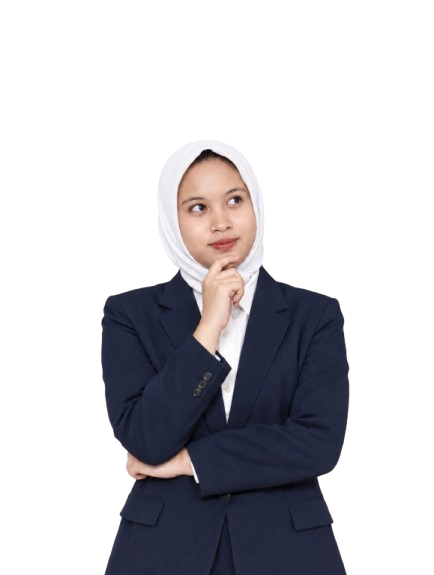
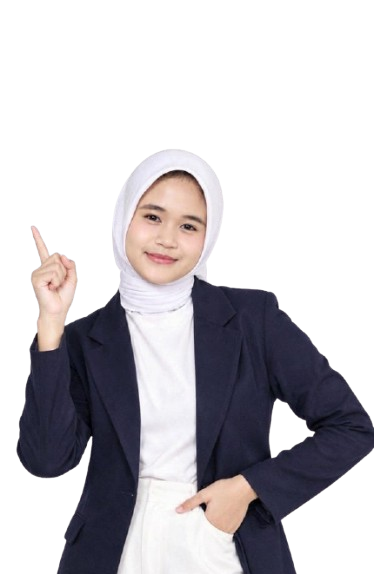
fix ui landing page

diff --git a/resources/views/landing.blade.php b/resources/views/landing.blade.php
@@ -31,6 +31,61 @@
             animation: blobPulse 8s ease-in-out infinite;
         }
 
+        /* Smooth entrance animations when page opens */
+        @keyframes pageEntranceUp {
+            0% {
+                opacity: 0;
+                transform: translateY(24px);
+            }
+            100% {
+                opacity: 1;
+                transform: translateY(0);
+            }
+        }
+        @keyframes pageEntranceScale {
+            0% {
+                opacity: 0;
+                transform: scale(0.92) translateY(20px);
+            }
+            100% {
+                opacity: 1;
+                transform: scale(1) translateY(0);
+            }
+        }
+        .animate-entrance-up {
+            animation: pageEntranceUp 0.85s cubic-bezier(0.16, 1, 0.3, 1) both;
+        }
+        .animate-entrance-image {
+            animation: pageEntranceScale 1s cubic-bezier(0.16, 1, 0.3, 1) 0.15s both;
+        }
+
+        /* Hero person floating up and down (naik turun) */
+        @keyframes floatHeroBob {
+            0%, 100% { transform: translateY(0px); }
+            50% { transform: translateY(-13px); }
+        }
+        .animate-float-hero {
+            animation: floatHeroBob 4.8s ease-in-out infinite;
+        }
+
+        /* Section 3 person pulse scale (besar kecil) */
+        @keyframes pulseScalePerson {
+            0%, 100% { transform: scale(1); }
+            50% { transform: scale(1.06); }
+        }
+        .animate-pulse-scale {
+            animation: pulseScalePerson 3.8s ease-in-out infinite;
+        }
+
+        /* Section 5 Dark Card man floating (naik turun lembut) */
+        @keyframes floatManGentle {
+            0%, 100% { transform: translateY(0px); }
+            50% { transform: translateY(-9px); }
+        }
+        .animate-float-man {
+            animation: floatManGentle 5.5s ease-in-out infinite 0.4s;
+        }
+
         /* Gentle floating animation for FAQ side figures */
         @keyframes floatGentleLeft {
             0%, 100% { transform: translateY(0px); }
@@ -191,7 +246,7 @@
                 <div class="grid grid-cols-1 lg:grid-cols-12 gap-10 lg:gap-8 items-center">
                     
                     <!-- Left: Headline, Description & CTAs (7 cols) -->
-                    <div class="lg:col-span-7 text-left">
+                    <div class="lg:col-span-7 text-left animate-entrance-up">
                         
                         <!-- Eyebrow Badge (matches reference layout, wraps comfortably on mobile) -->
                         <div class="inline-flex flex-wrap items-center gap-2 px-3.5 py-1.5 rounded-full bg-blue-50/90 border border-blue-200/80 text-blue-900 text-xs sm:text-sm font-semibold mb-6 shadow-2xs">
@@ -232,48 +287,67 @@
 
                     </div>
 
-                    <!-- Right: Visual Illustration / Photo Cutout with Laptop (5 cols) -->
-                    <div class="lg:col-span-5 relative flex justify-center lg:justify-end items-end pt-4 sm:pt-6 lg:pt-0">
+                    <!-- Right: Visual Illustration / Photo Cutout with Laptop (5 cols) matching Image 1 Reference -->
+                    <div class="lg:col-span-5 relative flex justify-center lg:justify-end items-end pt-4 sm:pt-6 lg:pt-0 animate-entrance-image">
                         
-                        <!-- Soft organic light-blue blob background behind the person (matches reference) -->
-                        <div class="absolute -inset-2 sm:-inset-4 lg:-inset-6 bg-gradient-to-tr from-sky-100/90 via-blue-50/80 to-indigo-50/60 rounded-[3rem] sm:rounded-[4rem] -rotate-2 -z-10 animate-blob-pulse"></div>
-
-                        <!-- Doodle Handwriting Note & Curved Arrow (Top-Right, matching reference) -->
-                        <div class="absolute top-1 sm:top-4 right-1 sm:right-2 z-20 pointer-events-none select-none text-right">
-                            <span class="font-handwriting text-base sm:text-lg lg:text-xl text-slate-700 -rotate-6 inline-block font-bold tracking-wide drop-shadow-2xs">
-                                Teknologi untuk hasil<br>yang lebih baik
-                            </span>
-                            <!-- Hand-drawn curved doodle arrow pointing down towards laptop -->
-                            <div class="flex justify-end pr-4 sm:pr-6 -mt-1">
-                                <svg class="w-10 sm:w-12 h-8 sm:h-10 text-slate-700 -rotate-12" viewBox="0 0 50 40" fill="none" stroke="currentColor" stroke-width="2" stroke-linecap="round" stroke-linejoin="round">
-                                    <path d="M42 4 C35 15, 20 18, 12 30" />
-                                    <path d="M8 24 L12 30 L18 28" />
+                        <!-- Main Cutout Composition with gentle floating animation -->
+                        <div class="relative z-10 w-full max-w-[320px] sm:max-w-[400px] lg:max-w-[450px] animate-float-hero flex justify-center items-end select-none">
+                            
+                            <!-- Organic Dual-Tone Blob Background (Directly matching user reference Image 1) -->
+                            <div class="absolute inset-0 -z-10 pointer-events-none select-none flex items-center justify-center">
+                                <svg viewBox="0 0 500 500" class="w-[110%] h-[110%] -translate-y-2" fill="none" xmlns="http://www.w3.org/2000/svg">
+                                    <!-- Layer 1: Soft Sky Blue Organic Accent Blob (Bottom-left peek, #d1ddee) -->
+                                    <path d="M 110 240 C 40 290, 15 390, 65 440 C 115 485, 230 485, 305 445 C 365 405, 335 335, 285 285 C 235 235, 175 195, 110 240 Z" fill="#D1DDEE" />
+                                    <!-- Layer 2: Deep Dark Navy Organic Blob framing hijab and body (#1e2c44) -->
+                                    <path d="M 245 42 C 345 38, 428 100, 438 205 C 450 315, 418 420, 318 450 C 218 475, 110 435, 90 330 C 72 225, 145 46, 245 42 Z" fill="#1E2C44" />
                                 </svg>
                             </div>
-                        </div>
 
-                        <!-- Small Decorative Doodle Sparks -->
-                        <div class="absolute top-16 left-2 sm:left-4 z-20 text-slate-400 pointer-events-none hidden sm:block">
-                            <svg class="w-5 h-5 sm:w-6 sm:h-6 animate-pulse" viewBox="0 0 24 24" fill="none" stroke="currentColor" stroke-width="2" stroke-linecap="round">
-                                <path d="M12 2v4m0 12v4M2 12h4m12 0h4m-3.5-6.5l-2.8 2.8m-7.4 7.4l-2.8 2.8m13 0l-2.8-2.8m-7.4-7.4l-2.8-2.8"/>
-                            </svg>
-                        </div>
+                            <!-- Doodle Accent: Top-Left Double Sparks (Matching Image 1 Reference) -->
+                            <div class="absolute top-8 sm:top-12 left-1 sm:left-4 z-20 pointer-events-none select-none">
+                                <svg class="w-8 sm:w-9 h-8 sm:h-9 text-[#1e2c44]" viewBox="0 0 32 32" fill="none" stroke="currentColor" stroke-width="2.5" stroke-linecap="round">
+                                    <line x1="6" y1="22" x2="20" y2="10" />
+                                    <line x1="12" y1="28" x2="26" y2="18" />
+                                </svg>
+                            </div>
 
-                        <!-- Main Cutout Photo: Woman with Laptop (images/foto-5.png) -->
-                        <div class="relative z-10 w-full max-w-[300px] sm:max-w-[380px] lg:max-w-[440px]">
+                            <!-- Doodle Handwriting Note & Curved Arrow (Top-Right, Matching Image 1 Reference) -->
+                            <div class="absolute -top-3 sm:top-0 -right-2 sm:right-2 z-20 pointer-events-none select-none text-right">
+                                <span class="font-handwriting text-sm sm:text-base lg:text-lg text-[#1e2c44] -rotate-6 inline-block font-bold tracking-wide leading-tight drop-shadow-2xs">
+                                    Teknologi<br>untuk hasil<br>yang lebih baik
+                                </span>
+                                <!-- Hand-drawn curved doodle arrow pointing down towards hijab/cheek -->
+                                <div class="flex justify-end pr-2.5 pt-0.5">
+                                    <svg class="w-8 sm:w-10 h-7 sm:h-9 text-[#1e2c44]" viewBox="0 0 45 40" fill="none" stroke="currentColor" stroke-width="2.5" stroke-linecap="round" stroke-linejoin="round">
+                                        <path d="M38 5 C30 16, 20 22, 10 32" />
+                                        <path d="M8 24 L10 32 L18 30" />
+                                    </svg>
+                                </div>
+                            </div>
+
+                            <!-- Doodle Accent: Mid-Right Wave/Arc (Matching Image 1 Reference) -->
+                            <div class="absolute top-1/2 -right-2 sm:-right-1 z-20 pointer-events-none select-none">
+                                <svg class="w-6 sm:w-7 h-9 sm:h-10 text-[#1e2c44]" viewBox="0 0 24 36" fill="none" stroke="currentColor" stroke-width="2.5" stroke-linecap="round">
+                                    <path d="M4 6 C16 4, 20 18, 14 26 C10 30, 16 34, 20 34" />
+                                </svg>
+                            </div>
+
+                            <!-- Main Cutout Photo: Woman with Laptop (images/foto-5.png) -->
                             <img 
                                 src="{{ asset('images/foto-5.png') }}" 
                                 alt="CRM UCIC Platform - Tim Pemasaran dengan Laptop" 
-                                class="w-full h-auto object-contain drop-shadow-xl select-none"
+                                class="w-full h-auto object-contain drop-shadow-md select-none relative z-10"
                                 loading="eager"
                             >
-                        </div>
 
-                        <!-- Floating subtle doodle line near bottom right -->
-                        <div class="absolute bottom-4 right-1 z-20 pointer-events-none text-slate-400 hidden sm:block">
-                            <svg class="w-10 h-6" viewBox="0 0 40 20" fill="none" stroke="currentColor" stroke-width="2" stroke-linecap="round">
-                                <path d="M4 14 C12 6, 24 18, 36 8" />
-                            </svg>
+                            <!-- Doodle Accent: Bottom-Right Double Lines (Matching Image 1 Reference) -->
+                            <div class="absolute bottom-6 sm:bottom-8 -right-1 sm:right-1 z-20 pointer-events-none select-none">
+                                <svg class="w-8 sm:w-9 h-6 sm:h-7 text-[#1e2c44]" viewBox="0 0 30 22" fill="none" stroke="currentColor" stroke-width="2.5" stroke-linecap="round">
+                                    <line x1="4" y1="14" x2="22" y2="8" />
+                                    <line x1="8" y1="20" x2="26" y2="14" />
+                                </svg>
+                            </div>
+
                         </div>
 
                     </div>
@@ -405,8 +479,8 @@
                             </svg>
                         </div>
 
-                        <!-- Main Cutout Photo: Woman with hands forward (images/foto-2.png) -->
-                        <div class="relative z-10 w-full max-w-[260px] sm:max-w-[300px] lg:max-w-[340px]">
+                        <!-- Main Cutout Photo: Woman with hands forward (images/foto-2.png) with gentle pulse-scale animation -->
+                        <div class="relative z-10 w-full max-w-[260px] sm:max-w-[300px] lg:max-w-[340px] animate-pulse-scale">
                             <img 
                                 src="{{ asset('images/foto-2.png') }}" 
                                 alt="CRM UCIC Solusi Terpadu - Gestur Tangan Terbuka" 
@@ -572,21 +646,21 @@
                     </div>
                 </div>
 
-                <!-- Visual Composition: Flanked by Photo Cutouts with Floating Animation & Doodles -->
-                <div class="grid grid-cols-1 xl:grid-cols-12 gap-6 lg:gap-8 items-end justify-center">
+                <!-- Visual Composition: Flanked by Photo Cutouts with Floating Animation & Doodles (Larger Presence) -->
+                <div class="grid grid-cols-1 lg:grid-cols-12 gap-6 lg:gap-8 items-end justify-center">
                     
-                    <!-- Left: Woman Thinking (foto-1.png) — Floating animation & cute doodle -->
-                    <div class="hidden xl:flex xl:col-span-2 justify-end items-end pb-2">
-                        <div class="relative w-full max-w-[200px] select-none animate-float-left">
+                    <!-- Left: Woman Thinking (foto-1.png) — Enlarged to match height of right photo -->
+                    <div class="hidden lg:flex lg:col-span-3 justify-end items-end pb-2">
+                        <div class="relative select-none animate-float-left">
                             
-                            <!-- Cute Doodle Thought Note above Left Girl -->
-                            <div class="absolute -top-12 -right-4 z-20 pointer-events-none select-none text-left">
-                                <span class="font-handwriting text-base sm:text-lg text-slate-700 -rotate-12 inline-block font-bold drop-shadow-2xs">
+                            <!-- Cute Doodle Thought Note directly above Left Girl's Head (Lowered closer to talent) -->
+                            <div class="absolute top-2 sm:top-4 lg:top-8 right-2 sm:right-6 z-20 pointer-events-none select-none text-left">
+                                <span class="font-handwriting text-base sm:text-lg lg:text-xl text-slate-700 -rotate-6 inline-block font-bold drop-shadow-2xs whitespace-nowrap">
                                     Punya pertanyaan? 🤔
                                 </span>
                                 <!-- Doodle curved arrow pointing towards FAQ -->
-                                <div class="pl-2 -mt-1">
-                                    <svg class="w-8 h-6 text-slate-600 rotate-12" viewBox="0 0 45 35" fill="none" stroke="currentColor" stroke-width="2" stroke-linecap="round">
+                                <div class="pl-4 pt-0.5">
+                                    <svg class="w-8 sm:w-9 h-6 sm:h-7 text-slate-600 rotate-12" viewBox="0 0 45 35" fill="none" stroke="currentColor" stroke-width="2.5" stroke-linecap="round">
                                         <path d="M5 10 C18 12, 28 20, 38 28" />
                                         <path d="M30 29 L38 28 L37 20" />
                                     </svg>
@@ -597,14 +671,14 @@
                             <img 
                                 src="{{ asset('images/foto-1.png') }}" 
                                 alt="Pertanyaan Fitur CRM UCIC" 
-                                class="w-full h-auto object-contain drop-shadow-md"
+                                class="h-[430px] lg:h-[480px] xl:h-[520px] w-auto max-w-none object-contain drop-shadow-md"
                                 loading="eager"
                             >
                         </div>
                     </div>
 
-                    <!-- Center: Interactive Accordion Container (12 cols on mobile/tablet/laptop, 8 cols on xl) -->
-                    <div class="xl:col-span-8 w-full max-w-3xl mx-auto">
+                    <!-- Center: Interactive Accordion Container -->
+                    <div class="lg:col-span-6 w-full max-w-2xl xl:max-w-3xl mx-auto">
                         <div class="space-y-3.5 sm:space-y-4">
                             @foreach($faqs as $faq)
                             <div 
@@ -666,18 +740,18 @@
                         </div>
                     </div>
 
-                    <!-- Right: Photo provided by user (foto-faq-kanan.png) — Floating animation & cute doodle -->
-                    <div class="hidden xl:flex xl:col-span-2 justify-start items-end pb-2">
-                        <div class="relative w-full max-w-[200px] select-none animate-float-right">
+                    <!-- Right: Photo provided by user (foto-faq-kanan.png) — Matching height with left photo -->
+                    <div class="hidden lg:flex lg:col-span-3 justify-start items-end pb-2">
+                        <div class="relative select-none animate-float-right">
                             
-                            <!-- Cute Doodle Answer Note above Right Girl -->
-                            <div class="absolute -top-12 -left-4 z-20 pointer-events-none select-none text-right">
-                                <span class="font-handwriting text-base sm:text-lg text-blue-600 rotate-6 inline-block font-bold drop-shadow-2xs">
-                                    Jawaban lengkapnya! 💡
+                            <!-- Cute Doodle Answer Note directly above Right Girl's pointing hand & head (Lowered closer to talent) -->
+                            <div class="absolute top-2 sm:top-4 lg:top-8 left-2 sm:left-4 z-20 pointer-events-none select-none text-right">
+                                <span class="font-handwriting text-base sm:text-lg lg:text-xl text-blue-600 rotate-3 inline-block font-bold drop-shadow-2xs whitespace-nowrap">
+                                    Jawaban selengkapnya! 💡
                                 </span>
                                 <!-- Doodle curved arrow pointing towards FAQ -->
-                                <div class="flex justify-end pr-2 -mt-1">
-                                    <svg class="w-8 h-6 text-blue-500 -rotate-12" viewBox="0 0 45 35" fill="none" stroke="currentColor" stroke-width="2" stroke-linecap="round">
+                                <div class="flex justify-end pr-3 pt-0.5">
+                                    <svg class="w-8 sm:w-9 h-6 sm:h-7 text-blue-500 -rotate-12" viewBox="0 0 45 35" fill="none" stroke="currentColor" stroke-width="2.5" stroke-linecap="round">
                                         <path d="M40 8 C28 14, 18 22, 8 28" />
                                         <path d="M8 20 L8 28 L16 27" />
                                     </svg>
@@ -688,7 +762,7 @@
                             <img 
                                 src="{{ asset('images/foto-faq-kanan.png') }}" 
                                 alt="Jawaban Solusi CRM UCIC" 
-                                class="w-full h-auto object-contain drop-shadow-md scale-x-[-1]"
+                                class="h-[430px] lg:h-[480px] xl:h-[520px] w-auto max-w-none object-contain drop-shadow-md"
                                 loading="eager"
                             >
                         </div>
@@ -709,21 +783,21 @@
         <section class="py-10 sm:py-16 lg:py-20 bg-white">
             <div class="max-w-7xl mx-auto px-4 sm:px-6 lg:px-8">
                 
-                <!-- Dark Navy Card Container -->
-                <div class="bg-[#0b162c] rounded-3xl sm:rounded-[2.5rem] px-5 sm:px-10 lg:px-14 pt-8 sm:pt-14 pb-0 relative overflow-hidden border border-slate-800 shadow-2xl">
+                <!-- Dark Navy Card Container (Compact Top Gap & Balanced Vertical Layout) -->
+                <div class="bg-[#0b162c] rounded-3xl sm:rounded-[2.5rem] px-5 sm:px-10 lg:px-14 pt-6 sm:pt-8 lg:pt-9 pb-0 relative overflow-hidden border border-slate-800 shadow-2xl">
                     
                     <!-- Ambient Subtle Radial Glow -->
                     <div class="absolute -top-32 -left-32 w-80 sm:w-96 h-80 sm:h-96 bg-blue-600/20 rounded-full blur-3xl pointer-events-none"></div>
                     <div class="absolute top-1/2 right-1/4 w-72 sm:w-80 h-72 sm:h-80 bg-indigo-600/15 rounded-full blur-3xl pointer-events-none"></div>
 
-                    <div class="grid grid-cols-1 lg:grid-cols-12 gap-8 items-end">
+                    <div class="grid grid-cols-1 lg:grid-cols-12 gap-6 lg:gap-8 items-center lg:items-center">
                         
-                        <!-- Left: Headline & CTA (4 cols) -->
-                        <div class="lg:col-span-4 text-left pb-6 sm:pb-12 z-10">
+                        <!-- Left: Headline & CTA (4 cols) — Vertically Balanced -->
+                        <div class="lg:col-span-4 text-left py-4 lg:py-6 z-10 self-center">
                             <span class="text-xs font-bold text-blue-400 tracking-wider uppercase mb-2 block font-display">
                                 Dipercaya oleh Banyak Institusi
                             </span>
-                            <h2 class="font-display text-2xl sm:text-3xl lg:text-4xl font-black text-white tracking-tight leading-tight mb-3 sm:mb-4">
+                            <h2 class="font-display text-2xl sm:text-3xl lg:text-4xl xl:text-[40px] font-black text-white tracking-tight leading-tight mb-3 sm:mb-4">
                                 Bersama CRM UCIC,<br>
                                 Capai Lebih Banyak
                             </h2>
@@ -741,8 +815,8 @@
                             </a>
                         </div>
 
-                        <!-- Middle: 3 Statistics Columns (4 cols) -->
-                        <div class="lg:col-span-4 grid grid-cols-3 gap-2 sm:gap-4 pb-6 sm:pb-12 z-10 text-center">
+                        <!-- Middle: 3 Statistics Columns (4 cols) — Vertically Balanced -->
+                        <div class="lg:col-span-4 grid grid-cols-3 gap-2 sm:gap-4 py-4 lg:py-6 z-10 text-center self-center">
                             
                             <!-- Stat 1: 300+ Sekolah / Institusi -->
                             <div class="flex flex-col items-center">
@@ -780,9 +854,9 @@
 
                         </div>
 
-                        <!-- Right: Man in Suit sitting (foto-4.png) — 4 cols -->
-                        <div class="lg:col-span-4 flex justify-center lg:justify-end items-end z-10 pt-2 sm:pt-0">
-                            <div class="w-full max-w-[240px] sm:max-w-[290px] lg:max-w-[340px]">
+                        <!-- Right: Man in Suit sitting (foto-4.png) with gentle floating animation (Ground at bottom) -->
+                        <div class="lg:col-span-4 flex justify-center lg:justify-end items-end z-10 self-end pt-2 sm:pt-0">
+                            <div class="w-full max-w-[260px] sm:max-w-[300px] lg:max-w-[340px] animate-float-man">
                                 <img 
                                     src="{{ asset('images/foto-4.png') }}" 
                                     alt="Eksekutif Pemasaran CRM UCIC - Bersama Rakit AI" 
